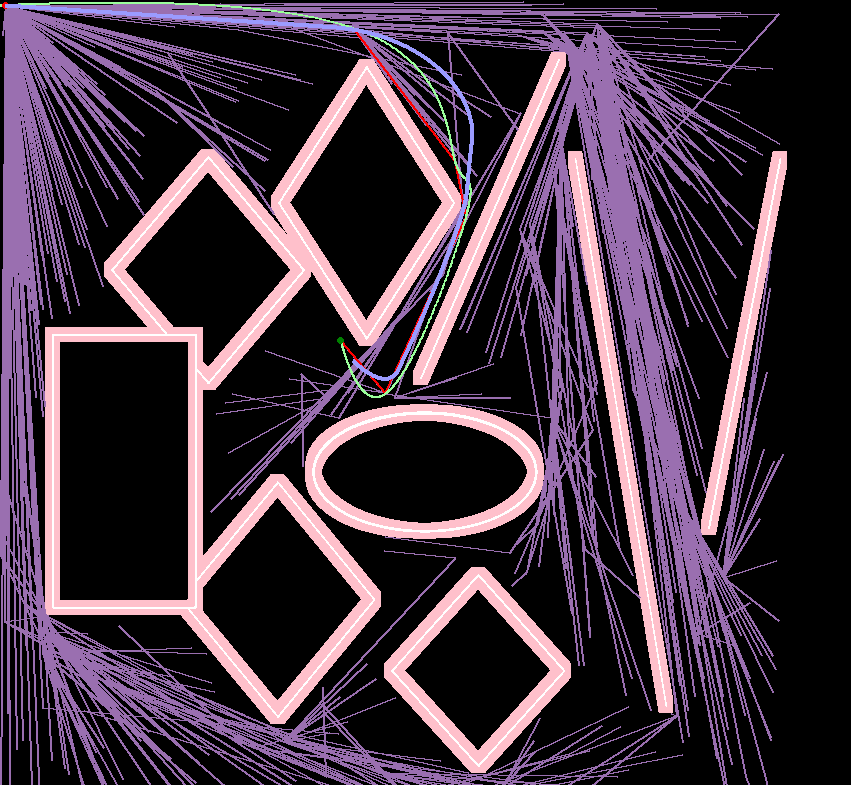
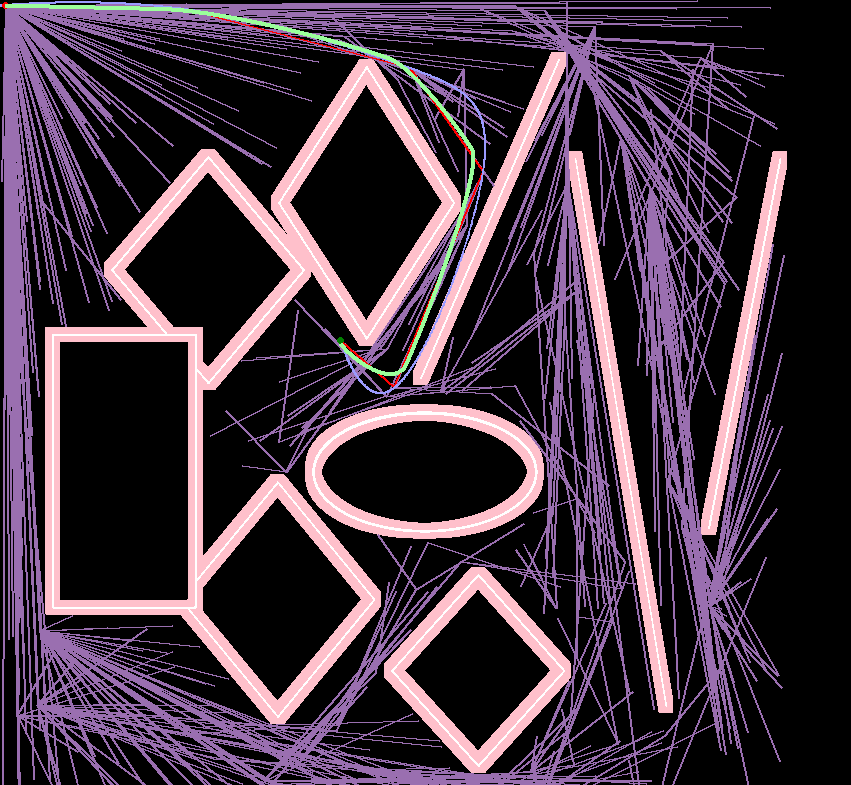
Made local planner only stop when within a closer threshold to the final node

diff --git a/main.py b/main.py
@@ -41,8 +41,8 @@ target_waypoint = global_path[1]
 
 render_local_path_on_image([], config.out_path, 'test.png')
 
-total_dist = (target_waypoint[0] - current_position[0]) ** 2 + (target_waypoint[1] -
-                                                                current_position[1]) ** 2
+total_dist = ((target_waypoint[0] - current_position[0]) ** 2
+              + (target_waypoint[1] - current_position[1]) ** 2)
 
 obstacles = []
 search_radius = 10
@@ -61,8 +61,16 @@ while (current_position[0], current_position[1]) != (global_path[-1][0], global_
     path = local_planner.get_path_coords(solution, state)
     current_position = path[-1]
 
-    if (current_position[0] - target_waypoint[0]) ** 2 + (
-            current_position[1] - target_waypoint[1]) ** 2 < 25**2:
+    # 25 threshold if not the last waypoint, 10 if it is
+    threshold = 25 if not (
+            (target_waypoint[0], target_waypoint[1]) ==
+            (global_path[-1][0], global_path[-1][1])) else 5
+
+    if (
+            (current_position[0] - target_waypoint[0]) ** 2
+            + (current_position[1] - target_waypoint[1]) ** 2
+            < threshold ** 2
+    ):
         if global_path.index(target_waypoint) + 1 < len(global_path):
             target_waypoint = global_path[global_path.index(target_waypoint) + 1]
         else:
@@ -76,3 +84,5 @@ while (current_position[0], current_position[1]) != (global_path[-1][0], global_
         imp = pygame.image.load('test.png').convert()
         screen.blit(imp, (0, 0))
         pygame.display.flip()
+
+input("COMPLETE: %s seconds" % (time.time() - start_time))

diff --git a/utils/render.py b/utils/render.py
@@ -159,7 +159,7 @@ def render_path(grid: Grid, path: Path, edges: Edges, output_path: str):
             end), list(start), waypoints))]
 
         for coord in range(len(smoothed_path[:-1])):
-            draw.line([smoothed_path[coord], smoothed_path[coord + 1]], fill=green, width=2)
+            draw.line([smoothed_path[coord], smoothed_path[coord + 1]], fill=blue, width=2)
 
     box = (start[0] - 3, start[1] - 3, start[0] + 3, start[1] + 3)
     draw.ellipse(box, outline="red", width=3)
@@ -215,7 +215,7 @@ def render_dict_path(grid: Grid, path, edges, output_path: str):
             end), list(start), waypoints))]
 
         for coord in range(len(smoothed_path) - 1):
-            draw.line([smoothed_path[coord], smoothed_path[coord + 1]], fill=green, width=2)
+            draw.line([smoothed_path[coord], smoothed_path[coord + 1]], fill=blue, width=1)
 
     box = (start[0] - 3, start[1] - 3, start[0] + 3, start[1] + 3)
     draw.ellipse(box, outline="red", width=3)
@@ -245,6 +245,6 @@ def render_local_path_on_image(path, input_image, output_image):
         start = path[i][0], path[i][1]
         end = path[i+1][0], path[i+1][1]
 
-        draw.line([start, end], fill=blue, width=4)
+        draw.line([start, end], fill=green, width=4)
 
     img.save(output_image)
